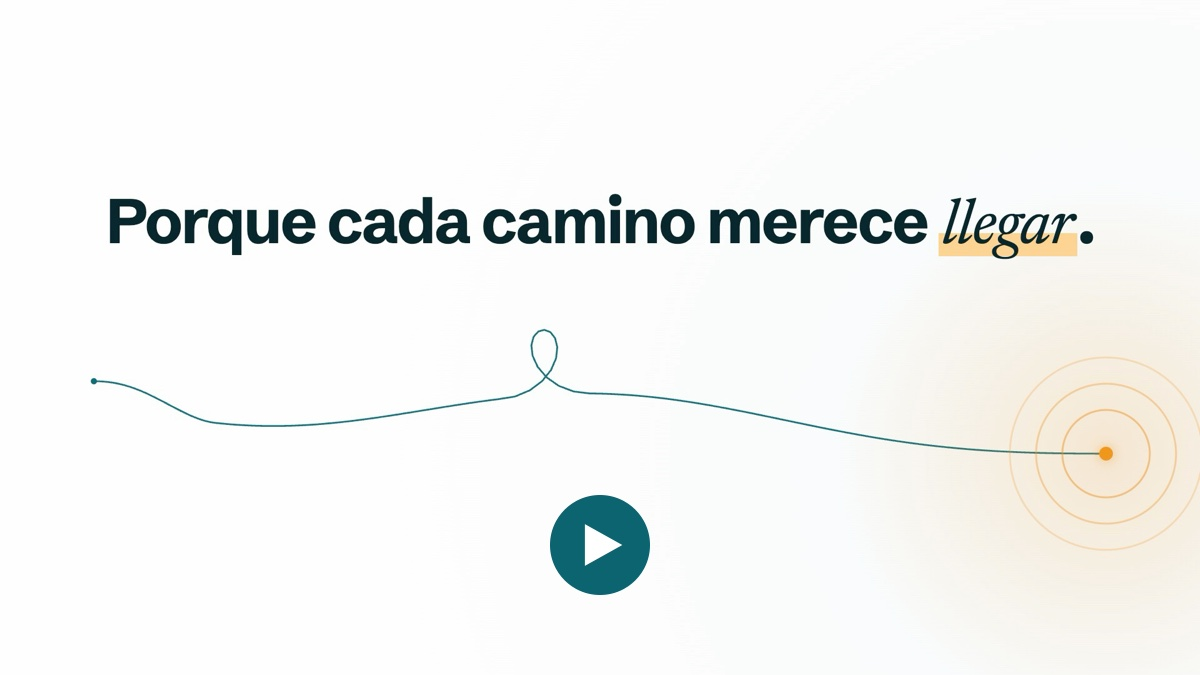
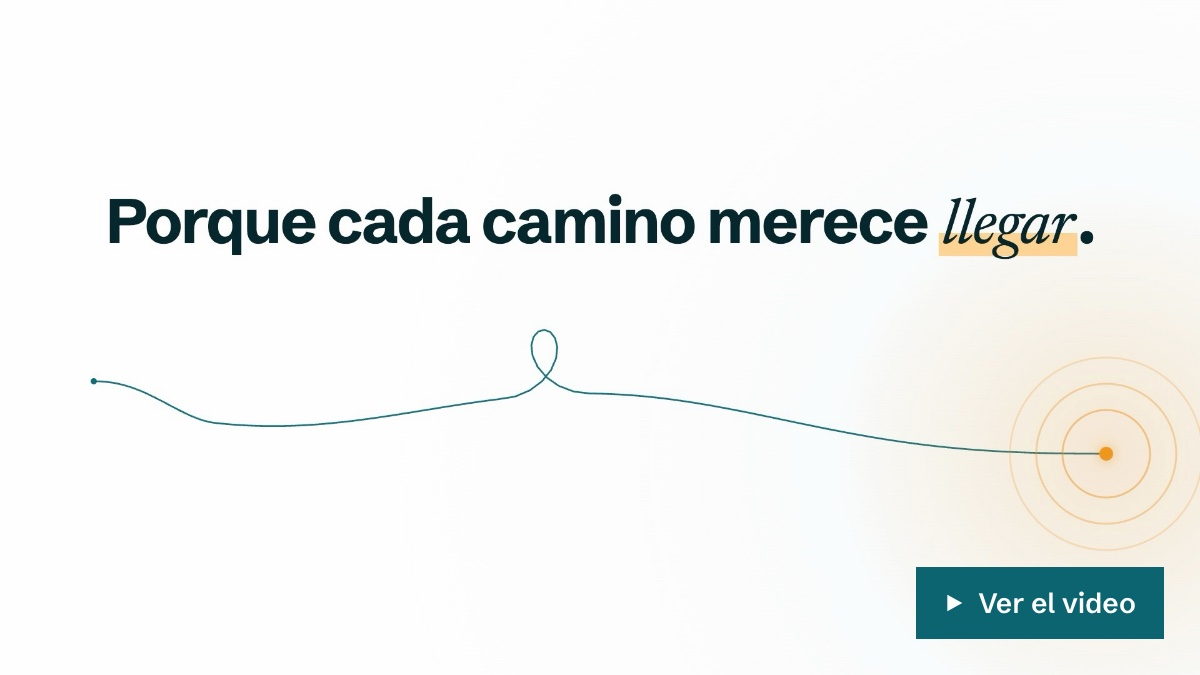
Por qué existimos: botón del video abajo a la derecha, con la forma de los botones del sitio (#6)
El botón redondo, bajado para no tapar el rulo de la línea, se veía corrido sin motivo. Ahora es un
botón rectangular "Ver el video" en petróleo, como "Hacer el diagnóstico", anclado abajo a la
derecha con el mismo margen al costado y abajo. En pantallas chicas se achica para no tapar el punto
de llegada. Toda la portada se sigue pudiendo tocar. La imagen para el mail queda igual, con la
tipografía de la marca.

Changed region(s): [[0.74, 0.84, 0.9867, 0.9644], [0.4317, 0.7156, 0.555, 0.9022]]

diff --git a/assets/marca.css b/assets/marca.css
@@ -57,12 +57,15 @@ p{text-wrap:pretty}
    el margen de desplazamiento deja ver la etiqueta debajo del menú cuando se llega con #video. */
 .sec-video{padding-top:0;scroll-margin-top:96px}
 .video{display:block;width:100%;height:auto;aspect-ratio:16/9;background:var(--surface);border:1px solid var(--rule)}
-/* Botón de play propio, en el mismo lugar que en la imagen para el mail: toda la portada se puede tocar. */
+/* Botón de play propio: abajo a la derecha, con el mismo margen al costado y abajo, y la forma de los botones del sitio
+   (igual que en la imagen para el mail). Toda la portada se puede tocar. */
 .video-marco{position:relative}
-.video-play{position:absolute;inset:1px;border:0;padding:0;background:transparent;color:var(--petroleo);cursor:pointer}
+.video-play{position:absolute;inset:1px;border:0;padding:0;background:transparent;font:inherit;cursor:pointer}
 .video-play[hidden]{display:none}
-.video-play svg{position:absolute;left:50%;top:80.7%;width:clamp(52px,8.4%,100px);height:auto;transform:translate(-50%,-50%);transition:color .15s}
-.video-play:hover svg{color:var(--petroleo-noche)}
+.video-play .btn{position:absolute;right:var(--space-4);bottom:var(--space-4);padding:12px 18px;font-size:15px}
+.video-play .btn svg{width:12px;height:12px}
+.video-play:hover .btn{background:#084E58}
+@media(max-width:560px){.video-play .btn{right:12px;bottom:12px;padding:6px 10px;font-size:13px;line-height:16px;gap:6px}.video-play .btn svg{width:9px;height:9px}}
 
 /* ---------- tipografía ---------- */
 .etiqueta{display:block;font-size:12px;line-height:16px;font-weight:600;letter-spacing:.12em;text-transform:uppercase;color:var(--ink-muted);margin-bottom:var(--space-3)}

diff --git a/quienes-somos.html b/quienes-somos.html
@@ -75,7 +75,7 @@
         <source src="/assets/video/uno-campus-latina.mp4" type="video/mp4">
         <a href="/assets/video/uno-campus-latina.mp4">Descargar el video (MP4, 27 MB)</a>
       </video>
-      <button class="video-play" type="button" aria-label="Ver el video, con sonido" hidden><svg viewBox="0 0 100 100" aria-hidden="true"><circle cx="50" cy="50" r="50" fill="currentColor"/><path d="M35 29v42l37.3-21z" fill="#fff"/></svg></button>
+      <button class="video-play" type="button" aria-label="Ver el video, con sonido" hidden><span class="btn"><svg viewBox="0 0 12 12" aria-hidden="true"><path d="M2 1v10l9-5z" fill="currentColor"/></svg>Ver el video</span></button>
     </div>
     <script>
     /* Portada limpia con botón propio: los controles del navegador aparecen recién al dar play (Safari oscurece
